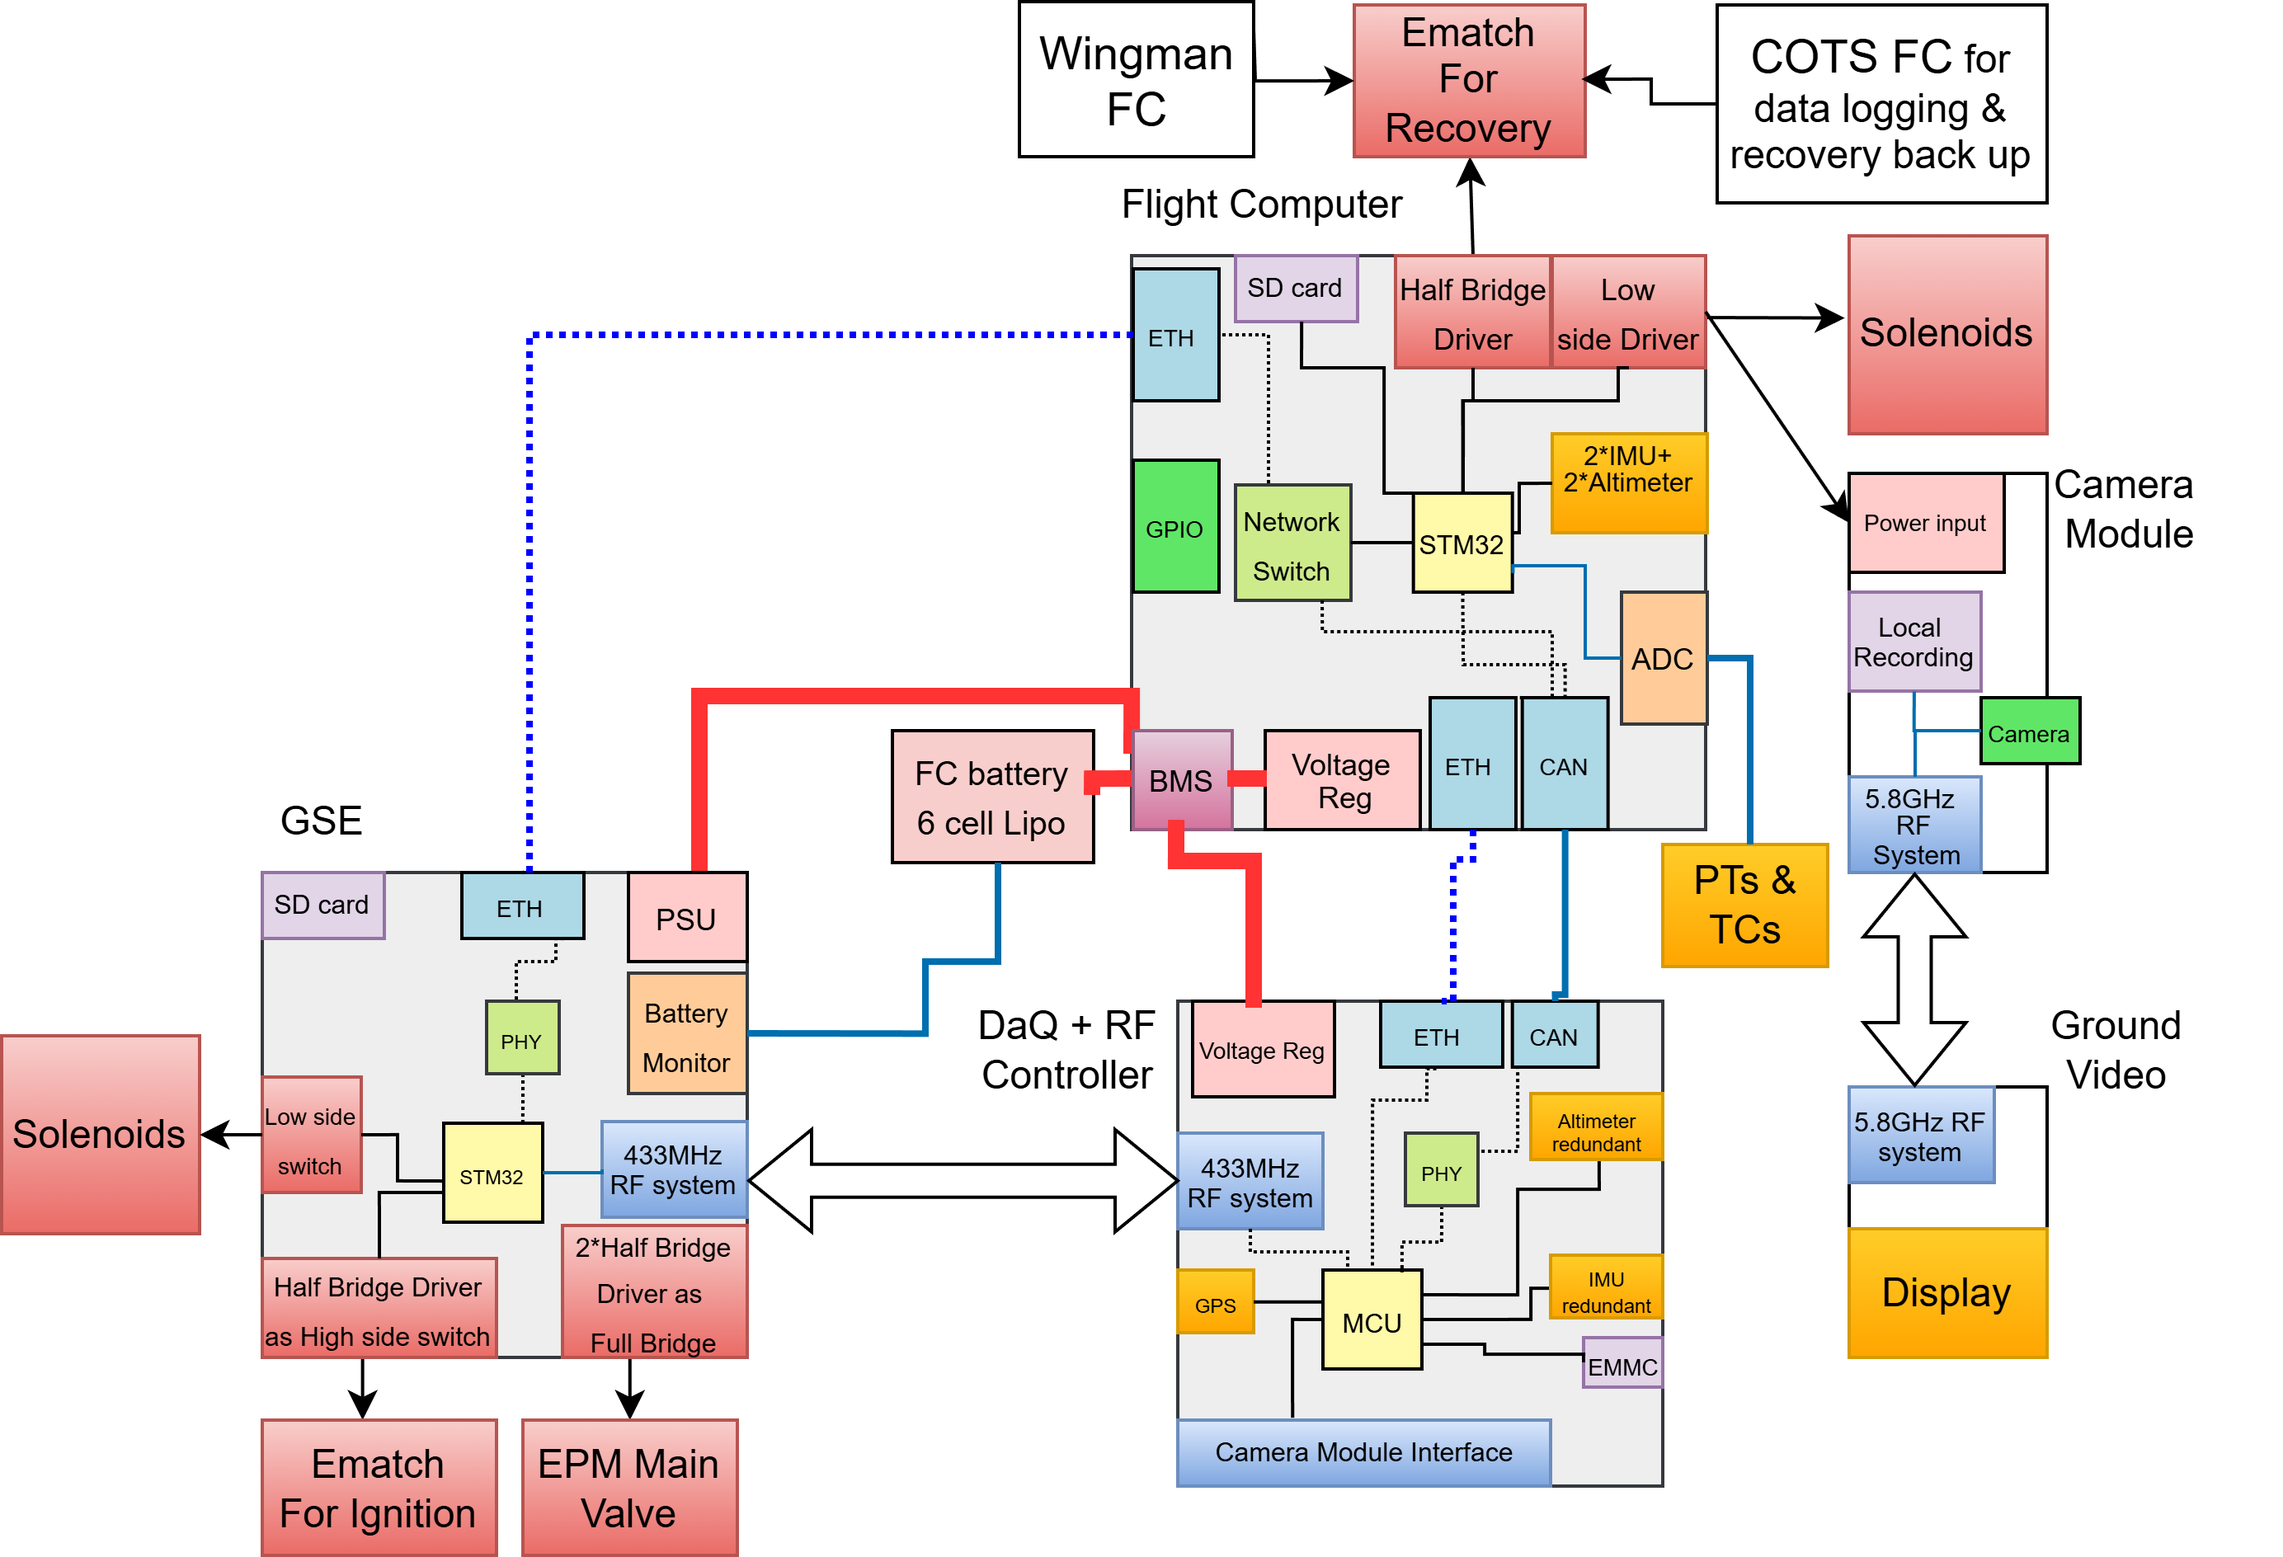
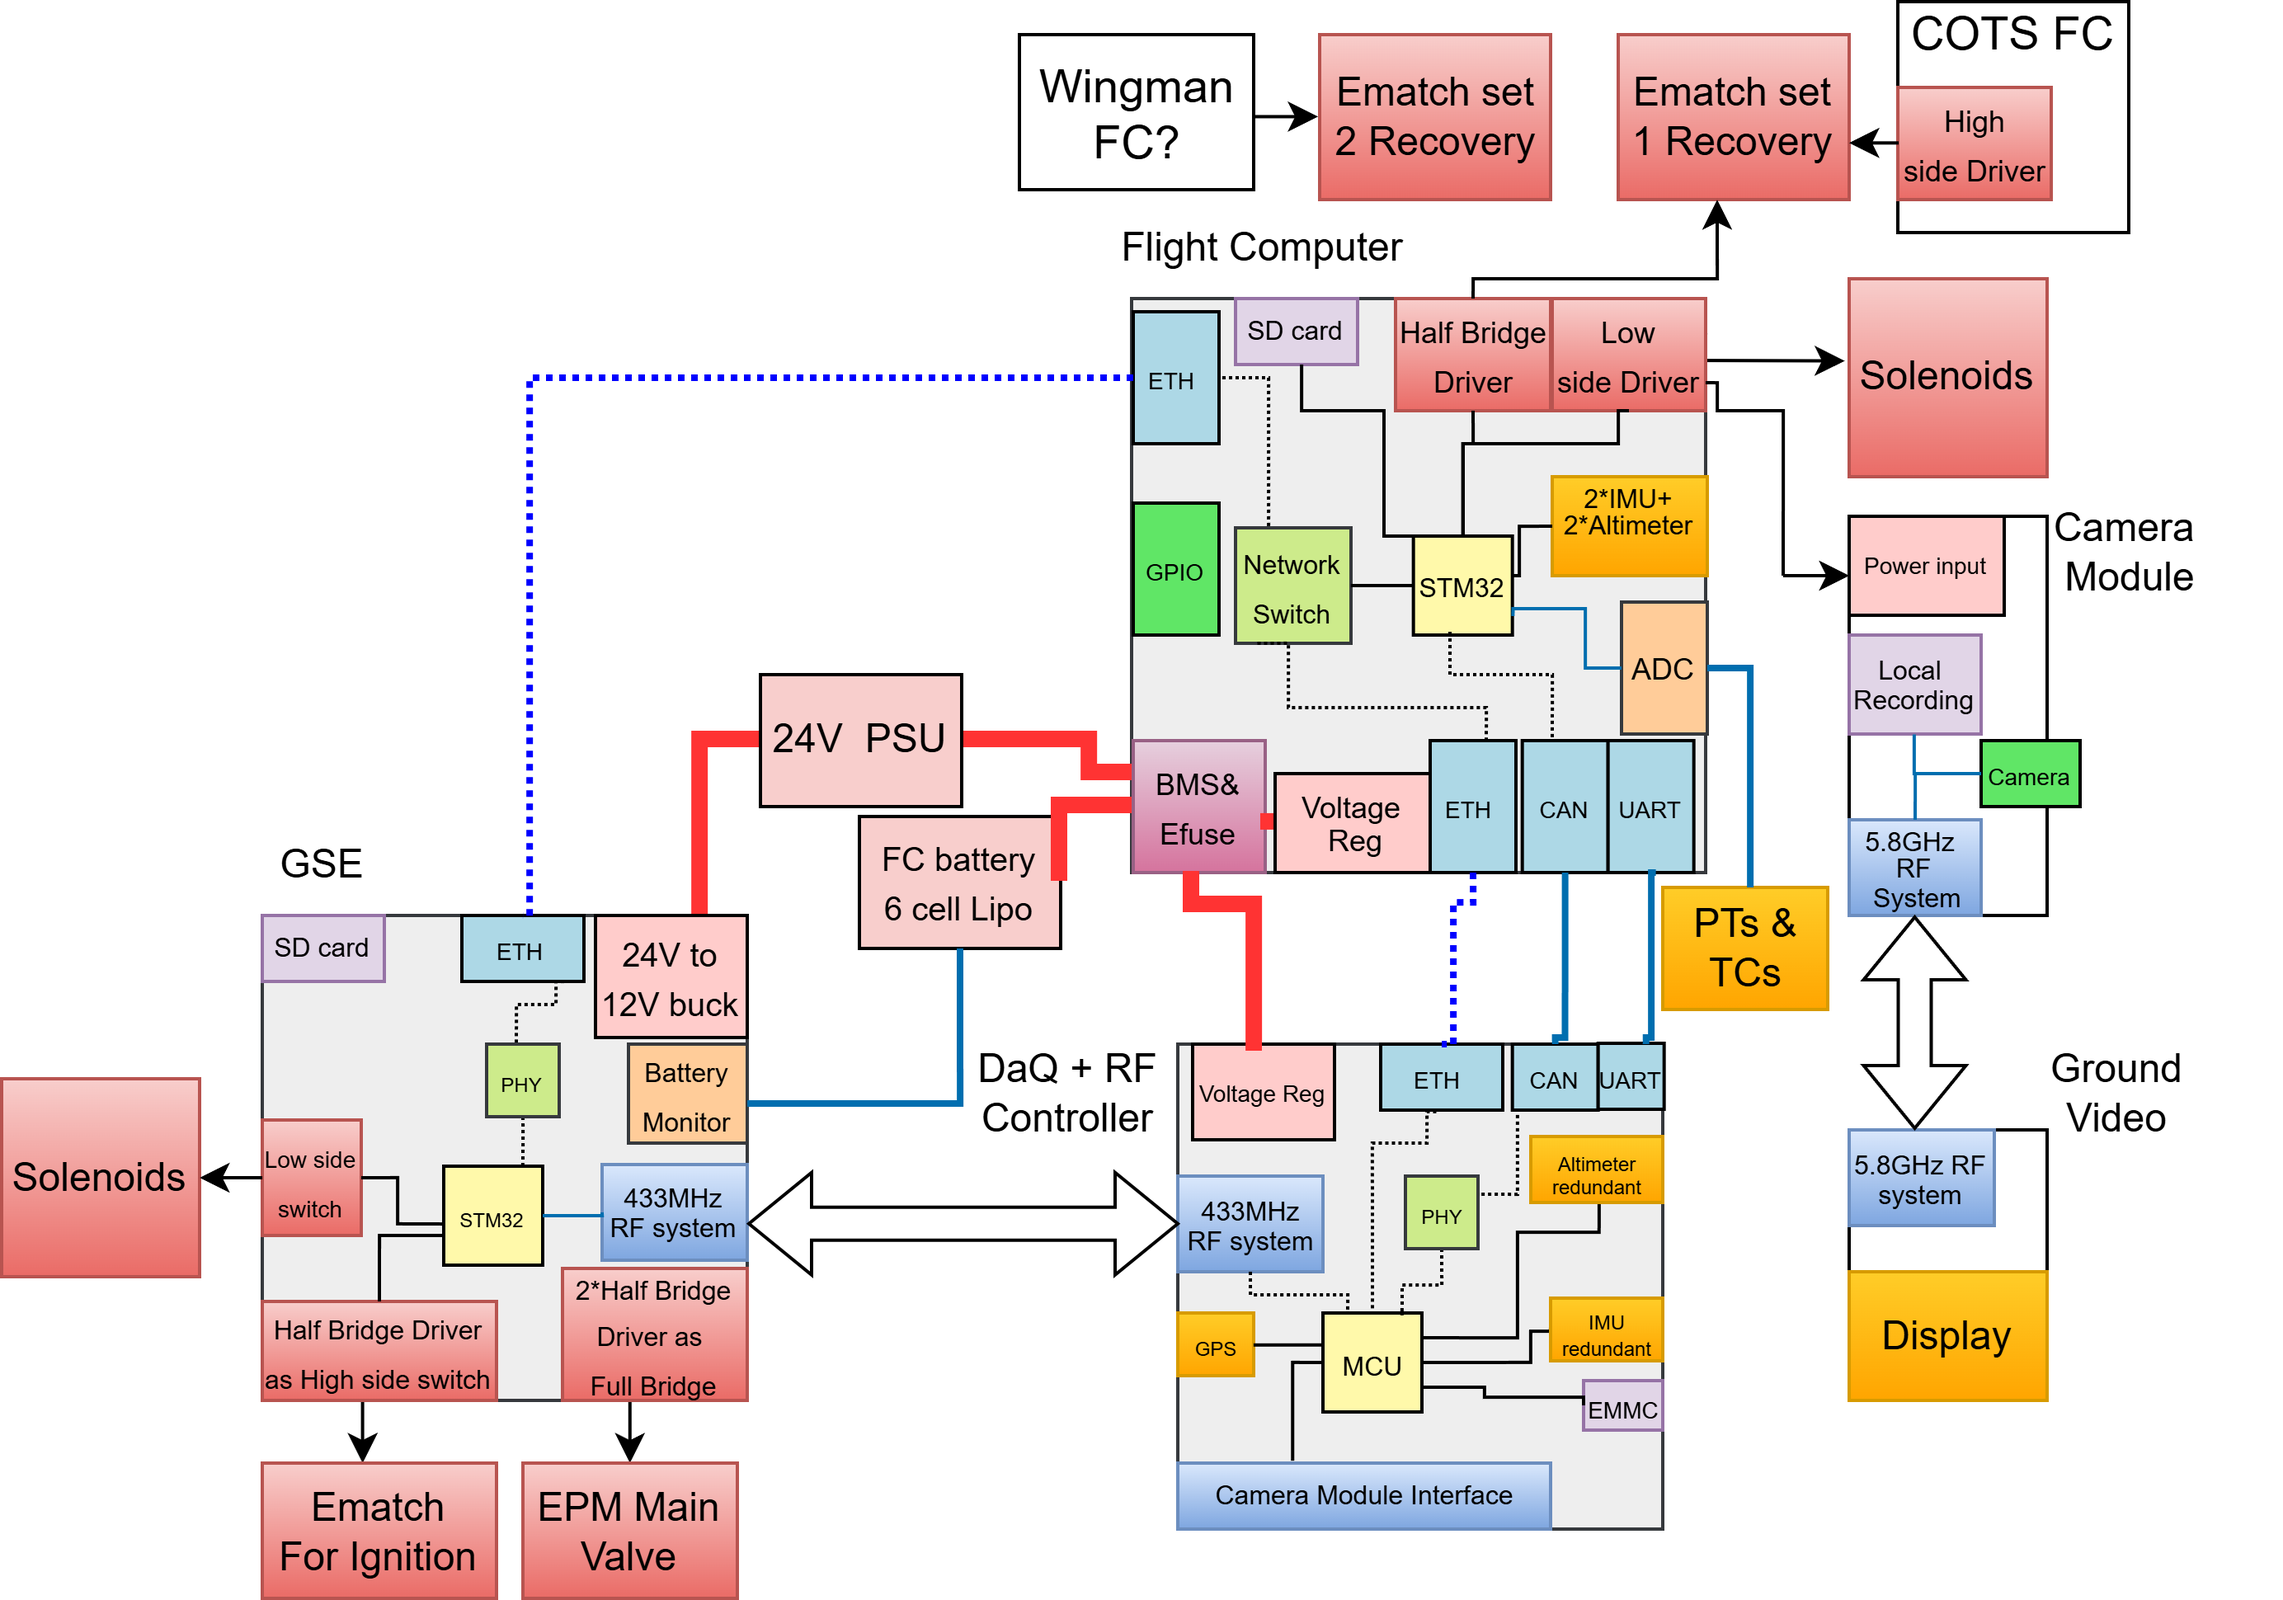
i did something

diff --git a/index.html b/index.html
@@ -224,14 +224,13 @@
             </div>
         </div>
 
-        <div style="display: flex; flex-direction: column; gap: 20px;">
-            
             <div style="background: white; padding: 10px; border-radius: 8px; box-shadow: 0 2px 8px rgba(0,0,0,0.1); text-align: center;">
-                <video width="100%" controls playsinline muted style="border-radius: 4px; background: #000; display: block;">
-                    <source src="HiL_Test.mp4" type="video/mp4">
+                <video width="100%" controls playsinline muted preload="metadata" style="border-radius: 4px; background: #000; display: block;">
+                    <source src="Argo_CF.mp4" type="video/mp4">
+                    <source src="Argo_CF.mov" type="video/quicktime">
                     Your browser does not support the video tag.
                 </video>
-                <p style="margin: 8px 0 0; font-size: 0.85em; color: #666;">🎥 <strong>HiL Test 1:</strong> Initial Integration</p>
+                <p style="margin: 8px 0 0; font-size: 0.85em; color: #666;">🎥 <strong>Biprop Engine Cold Flow:</strong> Flight computer & ground controller in the loop</p>
             </div>
 
             <div style="background: white; padding: 10px; border-radius: 8px; box-shadow: 0 2px 8px rgba(0,0,0,0.1); text-align: center;">
